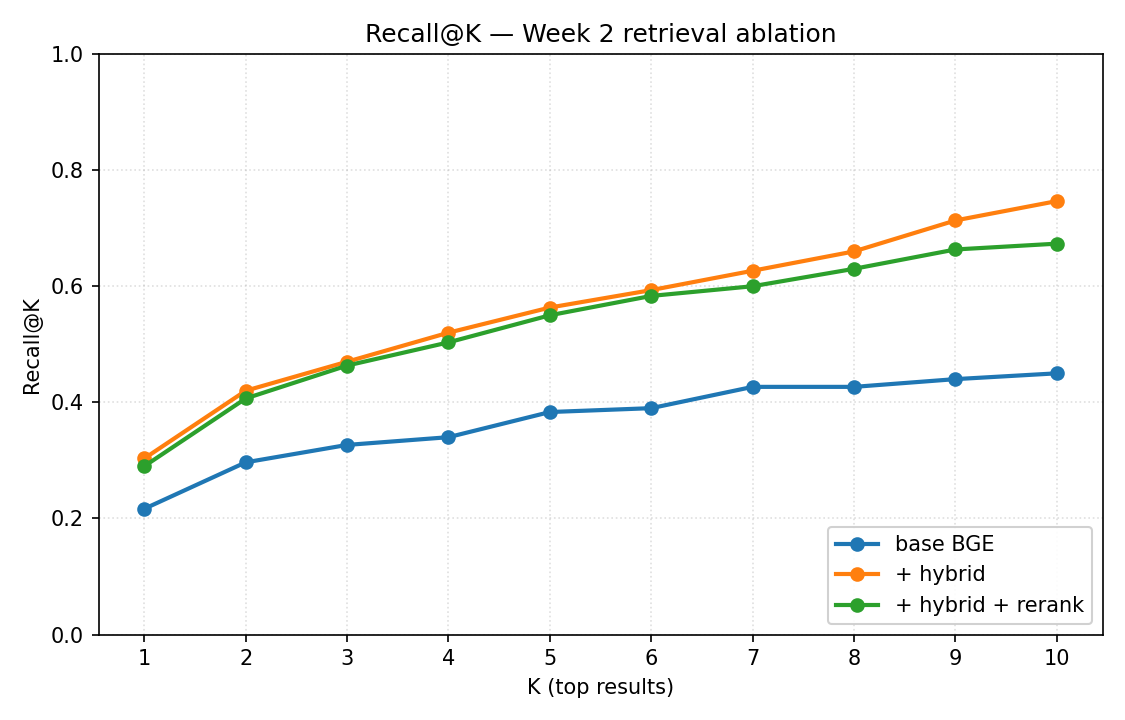
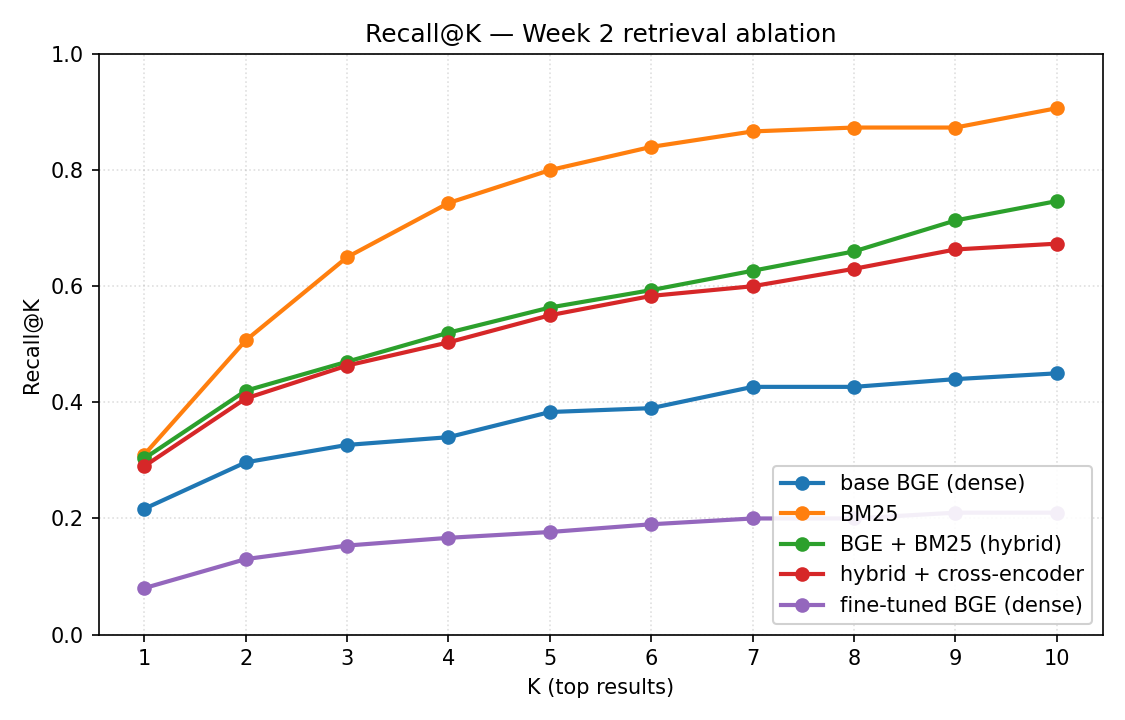
Task 2.17: src/eval/plot_recall_curves.py — refresh curves with BM25 + correct FT label
Adds BM25 as its own variant (it was missing from the original chart) and
fixes the previously misleading 'ft + hybrid + rerank' label that pointed
at results/finetuned.json — that file is the dense-only fine-tuned eval,
not the hybrid+rerank variant. New default variant set:

  base BGE (dense), BM25, BGE + BM25 (hybrid),
  hybrid + cross-encoder, fine-tuned BGE (dense)

Regenerates docs/figures/recall_curves.png and dumps the curve points to
results/recall_curves.json so the blog draft can cite exact numbers.

Curve story matches Task 2.16: BM25 dominates at every K, hybrid +
rerank both sit below pure BM25, and the fine-tuned dense line is the
floor.

Marks Task 2.16 + 2.17 complete in tickets.md.

diff --git a/src/eval/plot_recall_curves.py b/src/eval/plot_recall_curves.py
@@ -12,10 +12,11 @@ That gives us recall at *any* K up to `top_k` without re-running
 retrieval — perfect for a smooth curve.
 
     python -m src.eval.plot_recall_curves \
-        --variant "base BGE=results/baseline.json" \
-        --variant "+ hybrid=results/hybrid.json" \
-        --variant "+ hybrid + rerank=results/reranked.json" \
-        --variant "ft + hybrid + rerank=results/finetuned.json" \
+        --variant "base BGE (dense)=results/baseline.json" \
+        --variant "BM25=results/bm25.json" \
+        --variant "BGE + BM25 (hybrid)=results/hybrid.json" \
+        --variant "hybrid + cross-encoder=results/reranked.json" \
+        --variant "fine-tuned BGE (dense)=results/finetuned.json" \
         --out docs/figures/recall_curves.png
 
 Variants whose JSON doesn't exist are skipped with a warning rather
@@ -35,10 +36,11 @@ if hasattr(sys.stdout, "reconfigure"):
 log = logging.getLogger(__name__)
 
 DEFAULT_VARIANTS = (
-    ("base BGE", Path("results/baseline.json")),
-    ("+ hybrid", Path("results/hybrid.json")),
-    ("+ hybrid + rerank", Path("results/reranked.json")),
-    ("ft + hybrid + rerank", Path("results/finetuned.json")),
+    ("base BGE (dense)", Path("results/baseline.json")),
+    ("BM25", Path("results/bm25.json")),
+    ("BGE + BM25 (hybrid)", Path("results/hybrid.json")),
+    ("hybrid + cross-encoder", Path("results/reranked.json")),
+    ("fine-tuned BGE (dense)", Path("results/finetuned.json")),
 )
 
 

diff --git a/tickets.md b/tickets.md
@@ -101,8 +101,8 @@
 
 ### Day 14 — Ablation + blog
 
-- [ ] **Task 2.16** — Build ablation comparison (base BGE / +hybrid / +hybrid+rerank / ft+hybrid+rerank); emit `results/ablation.json` + Markdown table
-- [ ] **Task 2.17** — Plot Recall@K curves for all variants; save to `docs/figures/recall_curves.png`
+- [x] **Task 2.16** — Build ablation comparison (base BGE / +hybrid / +hybrid+rerank / ft+hybrid+rerank); emit `results/ablation.json` + Markdown table
+- [x] **Task 2.17** — Plot Recall@K curves for all variants; save to `docs/figures/recall_curves.png`
 - [ ] **Task 2.18** — Write Week 2 section of `docs/blog_draft.md` covering hybrid, rerank, fine-tuning story
 
 ---
